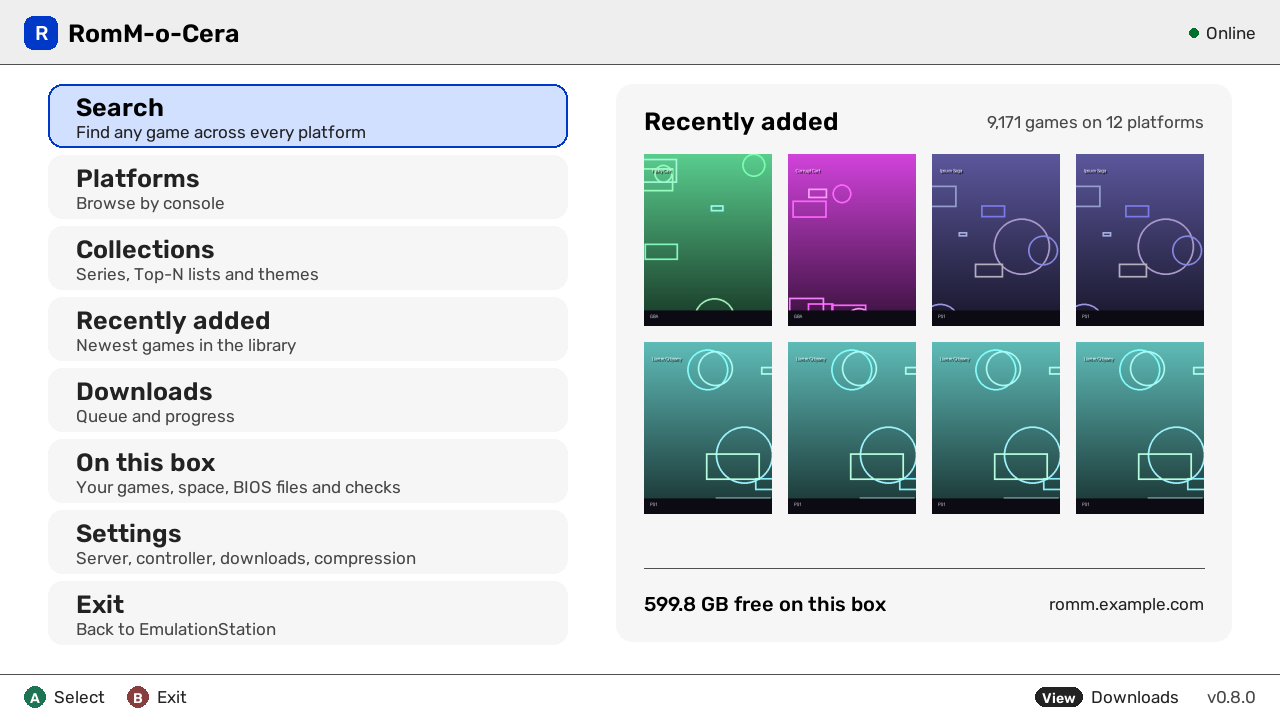
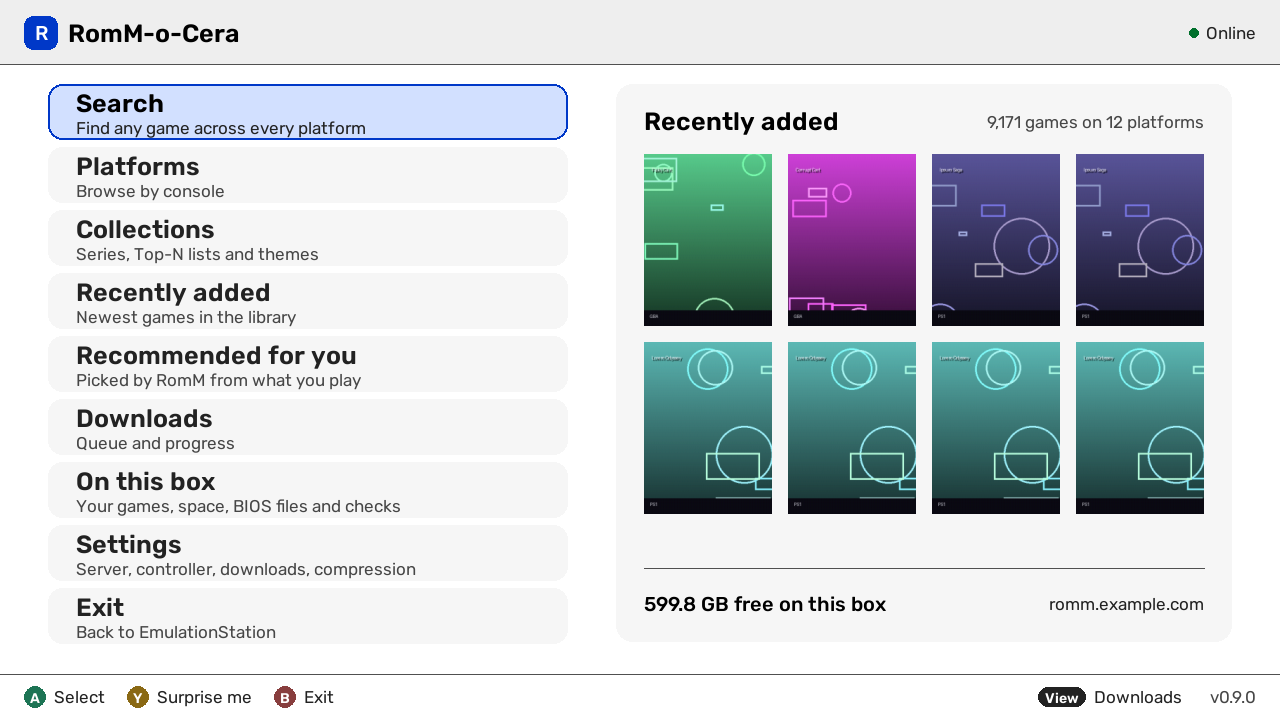
docs: the theme picker, Custom, Surprise me and Recommended for you get screenshots, and the theme examples show today's themes

diff --git a/docs/themes.md b/docs/themes.md
@@ -8,6 +8,8 @@ highlight. A new install starts on Default.
 
 ## The theme picker
 
+![The theme picker: every theme as a card, previewed live](../screenshots/theme-picker.png)
+
 Every theme is a card with a small picture of the app in its colours, in
 groups. Moving onto a card puts the whole app in that theme straight away,
 so you see it for real before you keep it. The panel beside the cards names
@@ -80,13 +82,16 @@ If your theme is an OLED one, every card starts on its OLED version.
 
 | | |
 |---|---|
+| ![Synthwave theme](../screenshots/themes/synthwave.png) | ![Brick theme](../screenshots/themes/brick.png) |
 | ![PlayStation OLED theme](../screenshots/themes/playstation-oled.png) | ![Xbox theme](../screenshots/themes/xbox.png) |
-| ![Kyoto theme](../screenshots/themes/nintendo.png) | ![High contrast light theme](../screenshots/themes/high-contrast-light.png) |
+| ![Kyoto theme](../screenshots/themes/kyoto.png) | ![High contrast light theme](../screenshots/themes/high-contrast-light.png) |
 
 ## Custom
 
 **Custom**, the last card, is a theme you make from four choices. Press A on
 its card to open it:
+
+![Custom: accent, tint, strength and mode, with a live preview](../screenshots/custom-theme.png)
 
 - **Accent colour**: the highlight, the logo and progress bars, picked round
   the colour wheel.

diff --git a/docs/browsing-and-downloading.md b/docs/browsing-and-downloading.md
@@ -19,6 +19,9 @@
   you've played a few, RomM suggests the library's best-rated games. When
   RomM has nothing to suggest yet (or is older than 5.4), the entry doesn't
   show.
+
+  ![Recommended for you on the home screen](../screenshots/recommended.png)
+
 - **Search** (on the home screen) looks through every platform, with an
   on-screen keyboard and the top matches shown as you type (or just type on
   a keyboard). Move right past the keyboard to open a match straight away
@@ -35,7 +38,11 @@ titled "Surprise: …" with the game's genre, players and year. **A**
 downloads it, **Y Another** picks again, **B** goes back. A game that's
 already on the box opens its menu instead (Play now is right there), and a
 disc of a multi-disc set opens the set's menu; both have **Another
-surprise** at the end. Where to find it:
+surprise** at the end.
+
+![Surprise me: Download, Another or Back](../screenshots/surprise.png)
+
+Where to find it:
 
 - **Home: Y.** From your whole library. A small menu first: **Pick a game**,
   how many **Players** (Any, 2+, 3+, 4+), and **Only games not on this box**.
